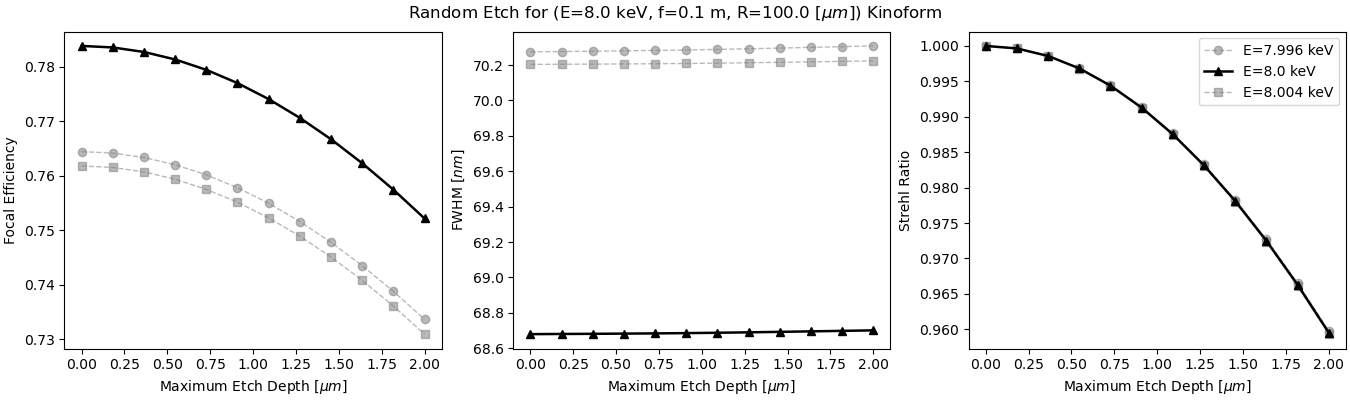
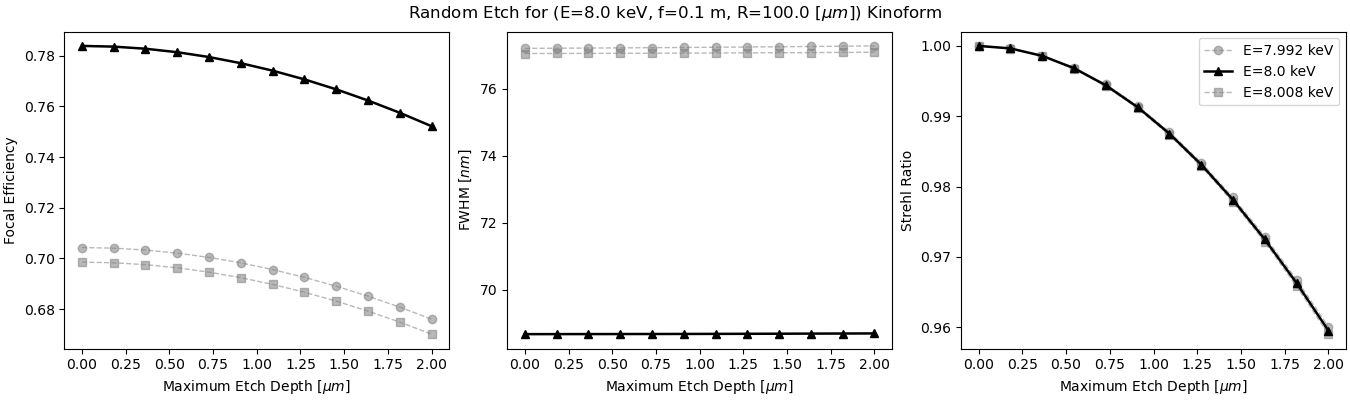
added non-zone shift tapering

diff --git a/optics/classes/lens_classes.py b/optics/classes/lens_classes.py
@@ -400,60 +400,7 @@ class LensErrors():
         return profile, errors
     
     @staticmethod
-    def kinoform_zone_placement(kinoform: Kinoform, err: float | np.ndarray, mutable=True) -> tuple[np.ndarray, np.ndarray | None]:
-        '''
-        Shift zone boundaries by a cumulative placement error of size `err` per
-        zone, rebuild the parabolic profile so each sample's thickness is
-        measured from its (shifted) zone's inner radius.
-        '''              
-        f = kinoform.f
-        delta = kinoform.delta
-        if kinoform.mutated: raise Exception("Kinoform profile has already been mutated!")
-        
-        ###
-        m_total = int(np.ceil(kinoform.zones))
-        # cumulative per-zone shift: eps[m] is applied to outer boundary r_m[m]
-        if isinstance(err, (int, float)): 
-            err = np.full(m_total, err)
-        else: 
-            assert (len(err) <= m_total)
-            err = np.asarray(err)
-        eps = np.cumsum(err)
-
-        assert np.all(eps[:-1] <= eps[1:]) 
-       
-        r_m = kinoform.zone_locations
-        r_in, r_out = r_m[:-1], r_m[1:]
-        
-        if kinoform.dim == 1:
-            r = np.abs(kinoform.grid)
-        else:
-            X, Y = kinoform.grid
-            r = np.sqrt(X**2 + Y**2)
-        
-        shifted_outer = r_out + eps # cumulative errors
-        zone_idx = np.clip(np.searchsorted(shifted_outer, r, side="right"), 0, m_total - 1)
-        h_in  = (np.sqrt(r_in[zone_idx]**2 + f**2) - f) / delta #advanced indexing
-        
-        ### New kinoform features
-        # if mutable:
-        #     print("Warning: Mutating original lens profile...")
-        #     R_new = kinoform.R + eps[-1]
-        #     kinoform.reshape(R=R_new)
-        #     kinoform.zone_locations = np.insert(shifted_outer, 0, 0.)
-        #     kinoform.zone_widths = Kinoform.calc_zone_widths(kinoform.zone_locations)
-        #     kinoform.mutated = True
-                  
-        r_effective = r - eps[zone_idx]
-        t_eff = (np.sqrt(r_effective**2 + f**2) - f) / delta
-        t = t_eff - h_in
-        t[t < 0] = 0
-        profile = t * (kinoform.aperture_field > 0)
-        
-        return profile, np.insert(err, 0, 0.)    
-    
-    @staticmethod
-    def zone_placement(lens: Kinoform | FZP, err, verbose=False):
+    def zone_shift(lens: Kinoform | FZP, err, verbose=False):
         m_total = int(np.ceil(lens.zones))
         # cumulative per-zone shift: eps[m] is applied to outer boundary r_m[m]
         if isinstance(err, (int, float)): 
@@ -606,42 +553,10 @@ class LensErrors():
                     R_new = float(r_m_out[m_last])
                     if R_new < kinoform.R:
                         print("Warning: Shrinking aperture...")
-                        kinoform.reshape(r_m_in[:m_last+1], r_m_out[:m_last+1])
                         kinoform.zones = len(surviving)
+                kinoform.reshape(r_m_in[:m_last+1], r_m_out[:m_last+1]-errs[:m_last+1])
         
         profile = profile * (kinoform.aperture_field > 0)
-
-        return profile, None
-    
-    @staticmethod
-    def kinoform_sidewall_taper(kinoform: Kinoform, err: float | np.ndarray, proportion=1.) -> tuple[np.ndarray, np.ndarray | None]:
-        
-        errs = kinoform.add_error(LensErrors.zone_placement, err=err)
-        # print(errs, kinoform.zones, kinoform.zone_locations, sep="\n")
-        # print(errs)
-        assert errs is not None
-        
-        r_start = np.asarray(kinoform.zone_right) #np.array(kinoform.zone_locations[:-1])
-        r_end = r_start + proportion*errs
-        # print(r_start, r_end, sep="\n")
-        # quit()
-        
-        if kinoform.dim == 1:
-            r = np.abs(kinoform.grid)
-        else:
-            X, Y = kinoform.grid
-            r = np.sqrt(X**2 + Y**2)
-            
-        t_2pi = kinoform.height 
-        profile = kinoform.profile
-        
-        for r1, r2 in zip(r_start, r_end):
-            mask = (r <= r2) & (r >= r1)
-            r_mask = r[mask]
-            taper = -t_2pi/(r2-r1)*(r_mask-r2)
-            profile[mask] = taper
-            
-        kinoform.reshape(kinoform.zone_left, r_end)
 
         return profile, errs
     
@@ -655,7 +570,7 @@ class LensErrors():
         else:
             r_right, r_left = zone_locations[:-1:2], zone_locations[1:-1:2]
 
-        r_start, r_end = r_left - err, r_right + err
+        r_start, r_end = r_left - proportion*err, r_right + proportion*err
         
         if FZP.dim == 1:
             r = np.abs(FZP.grid)
@@ -732,8 +647,57 @@ class LensErrors():
         profile = profile * (lens.aperture_field > 0)
         return profile, None
     
+    @staticmethod 
+    def kinoform_zone_placement(kinoform: Kinoform, direction:str="in") -> tuple[np.ndarray, np.ndarray | None]:
+        profile = np.asarray(kinoform.profile)
+        
+        return profile, None
+    
     @staticmethod
-    def kinoform_zone_warping(kinoform: Kinoform, R_min=None, R_max=None, beam_width=1e-8):
+    def kinoform_sidewall_taper(kinoform: Kinoform, err: float | np.ndarray, proportion=1., zone_shift=False) -> tuple[np.ndarray, np.ndarray | None]:
+        
+        if zone_shift:
+            errs = kinoform.add_error(LensErrors.zone_shift, err=err)
+        else:
+            errs = kinoform.add_error(LensErrors.zone_removal, err=err, m=0, extend=True, direction="in", remove_last=False, mutable=True)
+        # print(errs, kinoform.zones, kinoform.zone_locations, sep="\n")
+        # print(errs)
+        assert errs is not None
+
+
+        r_start = np.asarray(kinoform.zone_right) #np.array(kinoform.zone_locations[:-1])
+        r_end = r_start + proportion*errs
+        # print(r_start, r_end, sep="\n")
+        # quit()
+        
+        if kinoform.dim == 1:
+            r = np.abs(kinoform.grid)
+        else:
+            X, Y = kinoform.grid
+            r = np.sqrt(X**2 + Y**2)
+            
+        height = kinoform.height 
+        profile = np.asarray(kinoform.profile)
+    
+        if np.count_nonzero(errs) != 0: 
+            for r1, r2 in zip(r_start, r_end):
+                
+                # ids = np.argsort(np.abs(r-r1)) # left and right from the symmetric zone boundaries
+                # heights = profile.ravel()[ids]
+                # sample = heights[heights > 0]
+                # height = sample[0]
+                
+                mask = (r <= r2) & (r >= r1)
+                r_mask = r[mask]
+                taper = -height/(r2-r1)*(r_mask-r2)
+                profile[mask] = taper
+
+            kinoform.reshape(kinoform.zone_left, r_end)
+
+        return profile, errs
+
+    @staticmethod
+    def kinoform_zone_warping(kinoform: Kinoform, R_min=None, R_max=None, beam_width=1e-8) -> tuple[np.ndarray, np.ndarray | None]:
         '''
         Warp thin outer zones toward an FZP-like rectangle by resampling them
         with only `ns = floor(zone_width / beam_width)` interior anchors, so

diff --git a/optics/metrics/error_metrics.py b/optics/metrics/error_metrics.py
@@ -201,7 +201,7 @@ def main():
     
     ## Initialize reference parameters
         
-    E_range = np.array([0.9995*E, E, 1.0005*E])
+    E_range = np.array([0.999*E, E, 1.001*E])
     metrics=("P_eff", "FWHM", "Strehl")
 
     # Foreground the design-energy curve; push off-energy curves back
@@ -248,14 +248,14 @@ def main():
         case "y": 
             err_values = np.linspace(0, 2e-6, 12)
             labels = {
-                    "xlabel": [r"Maximum Etch Depth $[\mu m]$"] * len(metrics),
+                    "xlabel": [r"Maximum Roughness $[\mu m]$"] * len(metrics),
                     "ylabel": ["Focal Efficiency", r"FWHM $[nm]$", "Strehl Ratio"],
                     "xscale": ["linear"] * len(metrics),
                     "yscale": ["linear", "linear", "linear"],
                     "x_scale_factor":  1e6,                 # m -> um
                     "y_scale_factor": [1.0, 1e9, 1.0],     # FWHM m -> um
                     "label": [f"E={E_i/1000} keV" for E_i in E_range],
-                    "title": rf"Random Etch for (E={E/1000} keV, f={f} m, R={R*1e6} $[\mu m]$) Kinoform",
+                    "title": rf"Random Etch for (E={E/1000} keV, f={f} m, R={R*1e6} $\mu m$) Kinoform",
                     "marker": ["o", "^", "s", "d", "x"]
                 }
             out = savedir / "etch_error_vs_intensity_random.png"
@@ -269,14 +269,14 @@ def main():
         case "y": 
             err_values = -np.linspace(0, 2e-6, 12)
             labels = {
-                    "xlabel": [r"Etch Depth $[\mu m]$"] * len(metrics),
+                    "xlabel": [r"Roughness $[\mu m]$"] * len(metrics),
                     "ylabel": ["Focal Efficiency", r"FWHM $[nm]$", "Strehl Ratio"],
                     "xscale": ["linear"] * len(metrics),
                     "yscale": ["linear", "linear", "linear"],
                     "x_scale_factor":  -1e6,                 # m -> um
                     "y_scale_factor": [1.0, 1e9, 1.0],     # FWHM m -> um
                     "label": [f"E={E_i/1000} keV" for E_i in E_range],
-                    "title": rf"Periodic Etch for (E={E/1000} keV, f={f} m, R={R*1e6} $[\mu m]$) Kinoform",
+                    "title": rf"Periodic Etch for (E={E/1000} keV, f={f} m, R={R*1e6} $\mu m$) Kinoform",
                     "marker": ["o", "^", "s", "d", "x"]
                 }
             out = savedir / "etch_error_vs_intensity_periodic.png"
@@ -288,7 +288,7 @@ def main():
     ### Kinoform sidewall taper
     match input("Analyze kinoform sidewall taper? (y/n): "):
         case "y":
-            err_values = np.linspace(0, 1e-9, 10)
+            err_values = np.linspace(0, 1e-7, 10)
             p = 1.0
             labels = {
                     "xlabel": [r"Sidewall Taper Error $[nm]$"] * len(metrics),
@@ -298,7 +298,7 @@ def main():
                     "x_scale_factor":  1e9,                 # m -> um
                     "y_scale_factor": [1.0, 1e9, 1.0],
                     "label": [f"E={E_i/1000} keV" for E_i in E_range],
-                    "title": rf"Sidewall Taper (proportion={p}) for (E={E/1000} keV, f={f} m, R={R*1e6} $[\mu m]$) Kinoform",
+                    "title": rf"Sidewall Taper (proportion={p}) for (E={E/1000} keV, f={f} m, R={R*1e6} $\mu m$) Kinoform",
                     "marker": ["o", "^", "s", "d", "x"]
                 }
             out = savedir / "sidewall_taper_vs_intensity.png"
@@ -319,7 +319,7 @@ def main():
                     "x_scale_factor":  1.0,
                     "y_scale_factor": [1.0, 1e9, 1.0],
                     "label": [f"E={E_i/1000} keV" for E_i in E_range],
-                    "title": rf"Cap Height for (E={E/1000} keV, f={f} m, R={R*1e6} $[\mu m]$) Kinoform",
+                    "title": rf"Cap Height for (E={E/1000} keV, f={f} m, R={R*1e6} $\mu m$) Kinoform",
                     "marker": ["o", "^", "s", "d", "x"],
                 }
             out = savedir / "cap_height_vs_intensity.png"
@@ -340,7 +340,7 @@ def main():
                     "x_scale_factor":  1.0,
                     "y_scale_factor": [1.0, 1e9, 1.0],
                     "label": [f"E={E_i/1000} keV" for E_i in E_range],
-                    "title": rf"Cap Floor for (E={E/1000} keV, f={f} m, R={R*1e6} $[\mu m]$) Kinoform",
+                    "title": rf"Cap Floor for (E={E/1000} keV, f={f} m, R={R*1e6} $\mu m$) Kinoform",
                     "marker": ["o", "^", "s", "d", "x"],
                 }
             out = savedir / "cap_floor_vs_intensity.png"
@@ -361,7 +361,7 @@ def main():
                     "x_scale_factor":  1e9,
                     "y_scale_factor": [1.0, 1e9, 1.0],
                     "label": [f"E={E_i/1000} keV" for E_i in E_range],
-                    "title": rf"Zone Warping for (E={E/1000} keV, f={f} m, R={R*1e6} $[\mu m]$) Kinoform",
+                    "title": rf"Zone Warping for (E={E/1000} keV, f={f} m, R={R*1e6} $\mu m$) Kinoform",
                     "marker": ["o", "^", "s", "d", "x"],
                 }
             out = savedir / "zone_warping_vs_intensity.png"

diff --git a/optics/basic_test_cases/error_test.py b/optics/basic_test_cases/error_test.py
@@ -94,8 +94,11 @@ def test_zone_removal(err):
 
     print("Zones:", lens.zones)
     n = lens.zones
+    print(lens.zone_left, lens.zone_right, sep="\n")
     
-    lens.add_error(LensErrors.zone_removal, direction="in", extend=True, remove_last=True, mutable=True)
+    lens.add_error(LensErrors.zone_removal, err=1e-7, m=0, direction="in", extend=True, remove_last=False, mutable=True)
+    
+    print(lens.zone_left, lens.zone_right, sep="\n")
     
     fig, ax = plt.subplots(figsize=(8, 4))
     x = lens.grid
@@ -145,7 +148,7 @@ def test_gaussian_etch(max_err, invert=False):
     plt.close(fig)
     print(f"Saved etched kinoform profile to {out}.")
     
-def test_zone_placement(max_err):
+def test_zone_shift(max_err):
     print("Testing Kinoform with zone placement error (1D)...")
     Lx, Lz = 1.5e-4, 10000
     N = 10000
@@ -163,7 +166,7 @@ def test_zone_placement(max_err):
     
     print(lens.zone_left, lens.zone_right, sep="\n")
 
-    lens.add_error(LensErrors.zone_placement, err=[1e-6, 1e-6, 1e-6], mutable=True)
+    lens.add_error(LensErrors.zone_shift, err=1e-7)
     
     print(lens.zone_left, lens.zone_right, sep="\n")
     
@@ -200,8 +203,9 @@ def test_taper(max_err):
     
     print(lens.zone_right)
     
-    lens.add_error(LensErrors.kinoform_sidewall_taper, err=max_err, proportion=1.)
+    lens.add_error(LensErrors.kinoform_sidewall_taper, err=1e-6, proportion=1., zone_shift=False)
     # print(lens.R)
+    print(lens.zone_right)
     
     fig, ax = plt.subplots(figsize=(8, 4))
     x = lens.grid
@@ -323,7 +327,7 @@ def test_multierror():
 
     print("Kinoform Height:", lens.height)
     print(lens.zone_widths[-1])
-    lens.add_error(LensErrors.zone_placement, err=1e-7)
+    lens.add_error(LensErrors.zone_shift, err=1e-7)
     lens.add_error(LensErrors.kinoform_zone_warping, R_min=0, R_max=lens.R, beam_width=beam_width)
     lens.add_error(LensErrors.kinoform_sidewall_taper, err=1e-7,proportion=1.)
     lens.add_error(LensErrors.cap_floor, h=0.01, proportion=True)
@@ -437,13 +441,13 @@ if __name__ == "__main__":
     # test_gaussian_etch(max_err)
     # test_gaussian_etch(max_err, invert=True)
     # test_zone_removal(1e-6)
-    # test_zone_placement(1e-6)
-    # test_taper(1e-6)
+    # test_zone_shift(1e-6)
+    test_taper(1e-6)
     # test_zone_quantization()
     # test_zone_warping()
     # test_multierror()
     # test_reference()
-    test_FZP_error()
+    # test_FZP_error()
 
     
     
